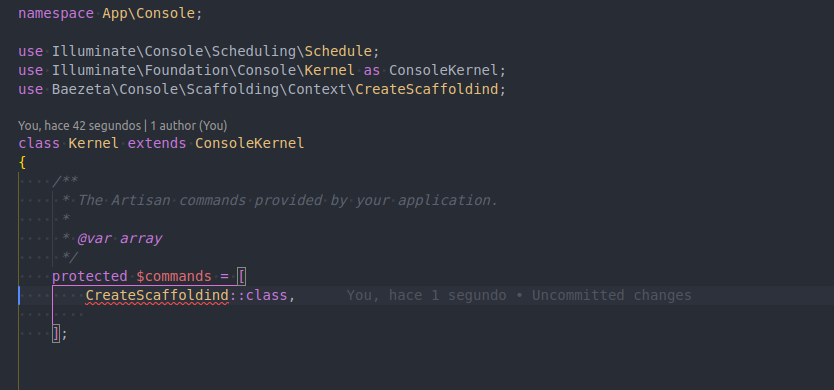
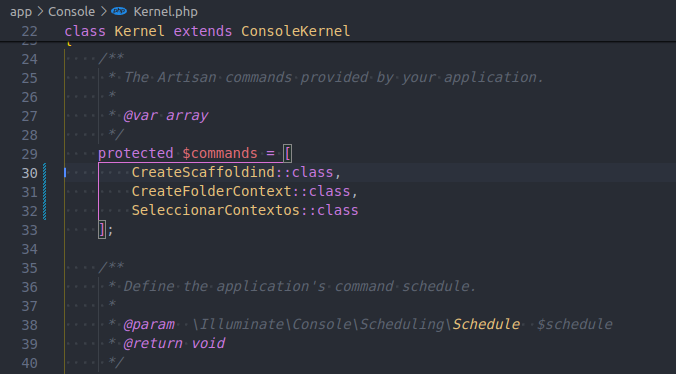
Refactor class

diff --git a/src/Scaffolding/Context/Commands/SeleccionarContextos.php b/src/Scaffolding/Context/Commands/SeleccionarContextos.php
@@ -5,25 +5,26 @@ namespace Baezeta\Console\Scaffolding\Context\Commands;
 use Illuminate\Console\Command;
 use Baezeta\Console\Scaffolding\Traits\ScaffoldingTrait;
 
-use function Laravel\Prompts\search;
-use function Laravel\Prompts\select;
-
 class SeleccionarContextos extends Command
 {
     use ScaffoldingTrait;
 
     public const BLUE = "\033[1;34m";
+    public const RED = "\033[0;31m";
+    public const GREEN = "\033[0;32m";
     public const NO_COLOR = "\033[0m";
 
-
-    public const EXIT_OPTION = 'Pulsa 0 para poder Salir';
+    public const EXIT_OPTION = 'SALIR';
+    public const OK_OPTION = 'OK..!';
     public const CHARACTER = '##';
 
     protected $hidden = true;
-    protected $signature = 'zeta:selecciona-crea-contexto-old';
+    protected $signature = 'zeta:selecciona-crea-contexto';
     protected $description = 'Selecciona el Contexto desde los ya creados en ./src/...';
+    protected $question = 'En que contexto desea crear la carpeta?';
+    protected $questionFolder = 'Selecciona la carpeta donde quieras crear el scaffold';
 
-    protected $question = self::BLUE . 'En que contexto desea crear la carpeta?' . self::NO_COLOR;
+
     protected $src = '';
     protected $path = '';
     protected $contextoBase = 'src';
@@ -34,72 +35,66 @@ class SeleccionarContextos extends Command
         // @phpstan-ignore-next-line
         $this->src = base_path() . '/' . $this->contextoBase;
         $this->path = $this->src;
-        $this->mostrarOpciones();
+        $this->question($this->question);
 
-
-        return 0;
+        return $this->mostrarOpciones();
     }
 
     public function mostrarOpciones($contextoElegido = null)
     {
-        if ($contextoElegido != null) {
+        if (!$contextoElegido == null) {
             $this->info('Has seleccionado: ' . $contextoElegido);
-            $this->path = $this->path . '/' . $contextoElegido;
         }
 
+        $this->warn(self::BLUE . 'Estas en la carpeta: ' . self::BLUE . $this->contextoBase);
         $carpetas = $this->obtenerCarpetas($contextoElegido);
 
-        // $contextoElegido = $this->choice($this->question, $carpetas);
-
-        $contextoElegido = (
-            $this->components->choice(
-                question: $this->question,
-                choices: $carpetas,
-                default: end($carpetas),
-                multiple: false
-            )
+        $contextoElegido = ($this->components->choice(
+            question: $this->questionFolder,
+            choices: $carpetas,
+            default: end($carpetas),
+            multiple: false
+        )
         );
         $this->line('');
-        $this->line('Has seleccionado: ' . self::BLUE . $contextoElegido);
-
-
 
         if ($contextoElegido == self::EXIT_OPTION) {
             $this->info('Has seleccionado Salir!');
-            return;
+            return Command::FAILURE;
+        }
+        if ($contextoElegido == self::OK_OPTION) {
+            return $this->elegirNombreDelContexto();
+            // return Command::SUCCESS;
         }
 
-        if (str_contains(self::CHARACTER, $contextoElegido)) {
+        if (str_contains($contextoElegido, self::CHARACTER)) {
             $this->warn('Has seleccionado una opcion equivocada!');
-            return;
+            return Command::FAILURE;
         }
 
-        if ($contextoElegido == $this->contextoBase) {
-            $this->info("Has seleccionado $this->contextoBase !");
-            $nombre = $this->ask('Escribe el nombre del contexto');
-            $fullPath = $this->path . '/' . $nombre;
+        $this->contextoBase = $contextoElegido;
+        $this->mostrarOpciones($contextoElegido);
+    }
+    private function elegirNombreDelContexto()
+    {
+        $this->info("Has seleccionado $this->contextoBase !");
+        $question = self::BLUE . 'Escribe el nombre del contexto que deseas crear' . self::NO_COLOR;
+        $nombre = $this->ask($question);
+        $fullPath = $this->path . '/' . $nombre;
 
-            $estrucuturaACrear = $this->formatearRutaCarpetas($this->src, $fullPath);
-
-            $estructureFolderCommand = "zeta:contexto-carpetas";
-            $this->call($estructureFolderCommand, ['context' => $estrucuturaACrear]);
-        } else {
-            $this->contextoBase = $contextoElegido;
-            $this->mostrarOpciones($contextoElegido);
-        }
+        $estrucuturaACrear = $this->formatearRutaCarpetas($this->src, $fullPath);
+        $estructureFolderCommand = "zeta:contexto-carpetas";
+        return $this->call($estructureFolderCommand, ['context' => $estrucuturaACrear]);
     }
 
 
     private function obtenerCarpetas($contexto = null)
     {
-        $carpetas = [];
-        $carpetas[0] = self::EXIT_OPTION;
-        $carpetas[] = self::CHARACTER;
-
         $contexto = '/' . $contexto;
         $this->path .= $contexto;
         $src = $this->path;
 
+        $carpetas = [];
         $folders = array_filter(glob($src . '/*'), 'is_dir');
         if (count($folders) > 0) {
             foreach ($folders as $folder) {
@@ -109,8 +104,11 @@ class SeleccionarContextos extends Command
                 $carpetas[] = $nombreDeCarpeta;
             }
         }
-        array_push($carpetas, self::CHARACTER . ' Estas en la carpeta ' . self::BLUE . $this->contextoBase . self::NO_COLOR . ' pulsa esta opcion para crear un nuevo contexto');
-        array_push($carpetas, $this->contextoBase);
+
+        array_push($carpetas, self::CHARACTER . ' Estas en la carpeta ./' .  $this->contextoBase . ' pulsa esta opcion para crear un nuevo contexto');
+        array_push($carpetas, self::OK_OPTION);
+        array_push($carpetas, self::EXIT_OPTION);
+
         return $carpetas;
     }
 }

diff --git a/src/Scaffolding/Context/CreateScaffoldind.php b/src/Scaffolding/Context/CreateScaffoldind.php
@@ -2,8 +2,10 @@
 
 namespace Baezeta\Console\Scaffolding\Context;
 
+
 use Illuminate\Console\Command;
 use Baezeta\Console\Scaffolding\Traits\ScaffoldingTrait;
+
 
 class CreateScaffoldind extends Command
 {
@@ -25,19 +27,20 @@ class CreateScaffoldind extends Command
     public function handle()
     {
         $context = $this->argument('context');
+        $expectedResponse = false;
 
         if (($context == null)) {
             $estructureCommand = 'zeta:selecciona-crea-contexto';
-            $this->call($estructureCommand);
-
+            $expectedResponse = $this->call($estructureCommand);
         } else {
             $context = $this->nombreFormateado($context);
             $estructureFolderCommand = 'zeta:contexto-carpetas';
-            $this->call($estructureFolderCommand, ['context' => $context]);
-
+            $expectedResponse = $this->call($estructureFolderCommand, ['context' => $context]);
         }
-        $this->info($context . ' Scaffold correctamente!');
-        return $context;
+        if ($expectedResponse == Command::SUCCESS) {
+            $this->info('Done!');
+            return Command::SUCCESS;
+        }
+        return Command::FAILURE;
     }
-
 }

diff --git a/src/Scaffolding/Context/Commands/CreateFolderContext.php b/src/Scaffolding/Context/Commands/CreateFolderContext.php
@@ -80,7 +80,7 @@ class CreateFolderContext extends Command
     public function crearCarpeta(string $rootPath, string $nombreDeCarpeta)
     {
         if ($this->crearDirectorio($rootPath . "/" . $nombreDeCarpeta)) {
-            $this->info('Carpeta creada correctamente: ' . $nombreDeCarpeta);
+            // $this->info('Carpeta creada correctamente: ' . $nombreDeCarpeta);
             $this->currentPath = $rootPath . "/" . $nombreDeCarpeta;
             return true;
         }

diff --git a/README.md b/README.md
@@ -18,8 +18,16 @@ composer require baezeta/scaffold
 
 Una vez instalado el paquete, necesitaremos incluirlo en el archivo ```Kernel.php``` .
 ``` App\Console\Kernel::class``` para que pueda ser invocado a traves de **Artisan**
-![alt text](./docs/img/kernel.png)
 
+Tal y como se muestra en la imagen incluiremos las tres clases del paquete
+```php
+protected $commands = [
+    CreateScaffoldind::class,
+    CreateFolderContext::class,
+    SeleccionarContextos::class
+];
+```
+![alt text](./docs/img/kernel.png)
 
 Una vez conofigurado buscara una carpeta principal **src/** que tomara como raiz del proyecto, en caso de no tenerla, crear manualmente para tener una base similar a:
 
